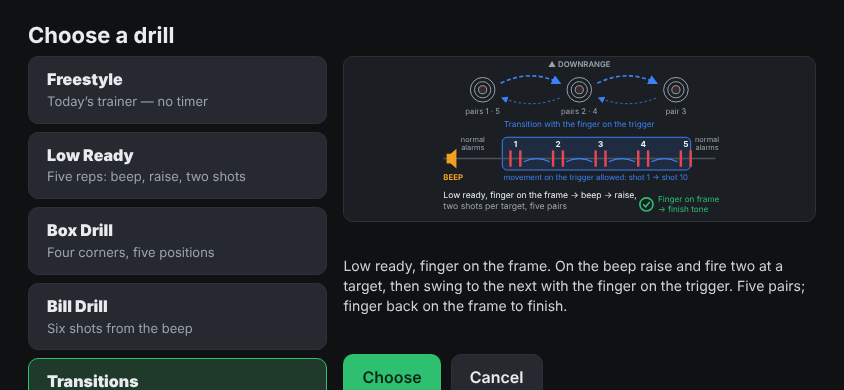
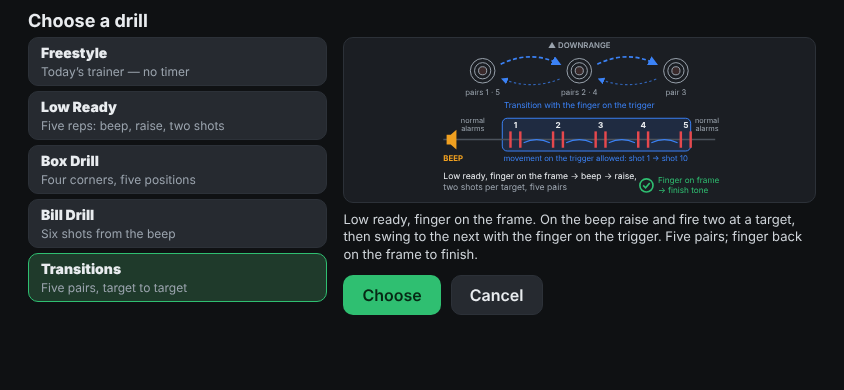
WQ-030: tests for the review fixes (running-minimum grading origin, window close, compact picker, structural expectations)
Claude-Session: https://claude.ai/code/session_013aLc3vB9FXw7qDu4fx63c5

diff --git a/tests/replay.js b/tests/replay.js
@@ -87,7 +87,7 @@ for (const f of files) {
   if (rec.format !== 'tdt-recording') { console.log(`SKIP  ${rel}: not a tdt recording`); continue; }
 
   const res = TDT.replay(rec);
-  const sum = summarize(res);
+  const sum = summarize(res); sum.synthetic = !!rec.synthetic;
   const dur = rec.t1 && rec.t0 ? ((rec.t1 - rec.t0) / 1000).toFixed(1) + ' s' : '';
   console.log(`\n${rel}  [${rec.label}${rec.synthetic ? ', synthetic' : ''}] ${dur}` +
     `  shots ${sum.shots.length} (${sum.shots.map(s => s.grade[0]).join('') || '-'})  alarms ${sum.alarmsMove}  180s ${sum.b180} (max ${sum.maxDev.toFixed(0)}°)` +
@@ -645,6 +645,76 @@ if (trFile) {
     const tshot = run('transitions'), bshot = run('bill');
     t(`grading: Transitions grades the shot after the 40 deg swing from the press start: Clean, dev ${tshot && tshot.shot.dev}`, !!tshot && tshot.shot.grade === 'Clean' && tshot.shot.dev < 0.5);
     t(`grading: the same sequence in Bill counts the swing: dev ${bshot && bshot.shot.dev.toFixed(1)} deg, not Clean (${bshot && bshot.shot.grade})`, !!bshot && bshot.shot.dev > 5 && bshot.shot.grade !== 'Clean');
+  }
+  // (F) the stimulus itself: the recording's four swings are real (>= 80 deg/s for >= 0.45 s, >= 35 deg) and nothing else moves
+  {
+    const ms = rec.log.filter(r => r[0] === 'm'), mag = r => Math.hypot(r[2], r[3], r[4]);
+    const stretches = []; let cur = null;
+    ms.forEach((r, i) => {
+      const hi = mag(r) >= 79.9;
+      if (hi) { if (!cur) { cur = { t0: r[1], t1: r[1], deg: 0 }; stretches.push(cur); } const dt = i ? (r[1] - ms[i - 1][1]) / 1000 : 0; cur.deg += mag(r) * dt; cur.t1 = r[1]; }
+      else cur = null;
+    });
+    t(`(F) the recording holds exactly four swings (${stretches.length}), each >= 80 deg/s for >= 0.45 s and integrating to >= 35 deg (${stretches.map(x => `${((x.t1 - x.t0) / 1000 + 1 / 60).toFixed(2)} s/${x.deg.toFixed(0)} deg`).join(', ')})`,
+      stretches.length === 4 && stretches.every(x => (x.t1 - x.t0) / 1000 + 1 / 60 >= 0.45 && x.deg >= 35));
+    t('(F) no other stretch of the recording exceeds moveDps (25 deg/s): the only fast turning is the four swings',
+      ms.every(r => mag(r) >= 79.9 || mag(r) <= TDT.DEFAULTS.moveDps));
+  }
+  // (A) grading origin follows the muzzle until the pull has risen 15 % above its lowest point of the attempt
+  {
+    const pull2 = c => { for (const dx of [20, 45, 70]) { c.eng.touches(c.T, TOUCH(dx), W, H); c.run(40); } };   // a pull with no return: the touch stays at 70 px
+    const seq = (id, how, ride) => {
+      const c = mk(5, id); c.go(); c.on(); c.run(600); c.fire(); c.run(300);                              // shot 1, touch kept at base
+      if (ride) { pull2(c); c.run(100); } else { c.fire(); c.run(300); }                                  // shot 2: held at 70 px (ride) or returned to base
+      how(c);
+      c.eng.touches(c.T, TOUCH(45), W, H); c.run(40); c.eng.touches(c.T, TOUCH(70), W, H); c.run(60);
+      return c;
+    };
+    const ride = c => { c.eng.touches(c.T, TOUCH(25), W, H);   // the broken trigger rides forward to 25 px: that is the reset, minPull 25
+      c.run(100); c.swing(40); c.run(300); };      // hold the reset at ~40 % pull, swing, the phone still
+    const abort = c => { c.eng.touches(c.T, TOUCH(18), W, H); c.run(100); c.eng.touches(c.T, TOUCH(0), W, H); c.run(100); c.swing(40); c.run(300); };   // 30 % and back
+    for (const [name, how, rd] of [['A1 reset-ride (held at 25 px = 42 %)', ride, true], ['A2 aborted press (30 % and back to 0)', abort, false]]) {
+      const tc = seq('transitions', how, rd), bc = seq('bill', how, rd);
+      const ts = tc.d().shots[2], bs = bc.d().shots[2];
+      t(`(${name}) Transitions: shot 3 grades from the press start: dev ${ts && ts.dev.toFixed(2)} (< 1), Clean, no alarm`, tc.d().shots.length === 3 && ts.grade === 'Clean' && ts.dev < 1 && tc.alarms().length === 0, ts);
+      t(`(${name}) vacuity, same sequence in Bill: the swing is in the deviation: dev ${bs && bs.dev.toFixed(1)} (about 40), not Clean`, bc.d().shots.length === 3 && bs.dev > 30 && bs.dev < 50 && bs.grade !== 'Clean', bs);
+    }
+    // a press that rises through the freeze point and falls back below it re-takes again (the origin follows a hold at the low point only)
+    const c = mk(5); c.go(); c.on(); c.run(600); c.fire(); c.run(300);
+    c.eng.touches(c.T, TOUCH(30), W, H); c.run(60); c.swing(20); c.run(100);                              // above 15 % of base 0: origin frozen at the 30 px moment
+    c.eng.touches(c.T, TOUCH(0), W, H); c.run(100); c.swing(-20); c.run(200);                              // back to the low point, then another swing: origin follows
+    c.eng.touches(c.T, TOUCH(45), W, H); c.run(40); c.eng.touches(c.T, TOUCH(70), W, H); c.run(60);
+    t(`(A3) press rising, falling back below the freeze point, swinging, then firing: the shot grades from the last low point (dev ${c.d().shots[1] && c.d().shots[1].dev.toFixed(2)} < 1)`, c.d().shots.length === 2 && c.d().shots[1].dev < 1);
+  }
+  // (B) a run replaced or dropped un-paused inside the window: cancel event, drift reference re-taken, window closed
+  for (const [name, act] of [['cancelDrill', c => c.eng.cancelDrill(c.T)], ["startDrill('bill')", c => c.eng.startDrill(c.T, 'bill', 9)]]) {
+    const c = mk(5); c.go(); c.on(); c.run(600); c.fire(); c.run(600); c.swing(40); c.run(100);
+    t(`(B) ${name}: setup: window open after a 40 deg swing, no alarm`, c.eng.state.drillFree === true && c.alarms().length === 0 && c.eng.state.devOff > 30);
+    act(c);
+    const freeAtOnce = c.eng.state.drillFree; c.run(20);
+    t(`(B) ${name}: one drillCancel (transitions), drillFree false at once, drift reference re-taken (devOff ${c.eng.state.devOff.toFixed(2)} at the next tick)`,
+      c.of('drillCancel').length === 1 && c.of('drillCancel')[0].drill === 'transitions' && freeAtOnce === false && c.eng.state.devOff < 1);
+    c.run(800);
+    t(`(B) ${name}: no alarmStart over the next 800 ms with the phone still (without the re-take the 40 deg drift would alarm); window still closed`, c.alarms().length === 0 && c.eng.state.drillFree === false);
+    c.rate(10, 1000);
+    t(`(B) ${name}: ... and the normal drift rule is live afterwards (a slow 10 deg alarms)`, c.alarms().length === 1 && c.alarms()[0].reason === 'move');
+  }
+  // (C) a pause mid-window closes the window at once
+  {
+    const c = mk(5); c.go(); c.on(); c.run(600); c.fire(); c.run(300);
+    t('(C) setup: window open', c.eng.state.drillFree === true);
+    c.eng.setPaused(true, c.T + 1);
+    t('(C) setPaused(true) mid-window: drillFree is false immediately, with no tick in between', c.eng.state.drillFree === false && c.of('drillCancel').length === 1);
+  }
+  // (I) a shot before the beep is early and opens no window
+  {
+    const c = mk(5); c.eng.touches(10, REST, W, H); c.run(700); c.on(); c.run(500); c.fire(); c.run(300);
+    t('(I) a shot in standby before the beep: early 1, phase standby, no run shot, drillFree false', c.d().phase === 'standby' && c.d().early === 1 && c.d().shots.length === 0 && c.eng.state.drillFree === false && c.of('shot').length === 1);
+    c.swing(40);
+    t('(I) ... and a swing then alarms (no window was opened by that shot)', c.alarms().length === 1 && c.alarms()[0].reason === 'move');
+    c.frame(); c.run(100);
+    c.until(() => c.d().phase === 'live', 7000);
+    t('(I) the beep still comes after the early shot; the early shot is not one of the ten (shots 0, early 1)', c.d().phase === 'live' && c.d().shots.length === 0 && c.d().early === 1);
   }
 }
 

diff --git a/tests/expectations.js b/tests/expectations.js
@@ -156,19 +156,19 @@ module.exports = {
       ['Box positions carry time / splits and no Low Ready fields (no reaction, no split)', !!run && run.reps.every(p => !('reaction' in p) && !('split' in p) && 'time' in p && Array.isArray(p.splits)) && !('avgReaction' in run)],
     ];
   },
-  // WQ-030: Transitions. Five pairs, the phone swung fast (40 deg, over 80 deg/s) after each of the first four with the finger kept
-  // on the trigger; the window (first to tenth shot) lets that pass. Every figure is derived here from the event times.
+  // WQ-030: Transitions. Structural checks apply to every recording with this label (real phones too); the timing, grade and
+  // no-alarm checks hold only for the generated synthetic one (r.synthetic), whose swings and presses are scripted. Every figure
+  // is derived here from the event times.
   'drill-transitions': r => {
     const FR = 17, near = (a, b) => Math.abs(a - b) < 0.01, run = r.runs[0], B = r.beepEvs, endT = r.endTs[0], st = r.shotTimes;
     const have = B.length === 1 && st.length === 10 && endT !== undefined;
     const gaps = have ? st.slice(1).map((x, i) => x - st[i]) : [];
     const mean = a => a.reduce((x, y) => x + y, 0) / a.length;
-    return [
+    const out = [
       ['exactly one start beep (rep 1), no cue, no cancel, one drill end', r.drillBeeps === 1 && B[0].rep === 1 && r.drillCues === 0 && r.drillCancels === 0 && r.drillEnds === 1],
       ['the beep falls 2000-5000 ms (+ one frame) after arming', B.length > 0 && r.firstArmedT !== undefined && B[0].t - r.firstArmedT >= 2000 && B[0].t - r.firstArmedT <= 5000 + FR],
       ['ten shots, all after the beep, the drill end after the tenth', have && st.every(t => t > B[0].t) && endT > st[9]],
-      ['no alarm at all (none between shot 1 and shot 10 in particular)', r.alarms === 0 && r.alarmTs.length === 0 && !r.alarmTs.some(t => have && t >= st[0] && t <= st[9])],
-      ['every shot graded, none "unsafe" (all Clean: the phone is still during each press)', r.shots.length === 10 && r.shots.every(s => s.grade === 'Clean')],
+      ['no alarmStart between shot 1 and shot 10 (the window)', have && !r.alarmTs.some(t => t >= st[0] && t <= st[9])],
       ['the end has the same t as an ok event (the finger back on the frame)', endT !== undefined && r.okTs.includes(endT)],
       ['state.drillRuns holds one run, drill "transitions", ten shots, nine splits', r.runs.length === 1 && !!run && run.drill === 'transitions' && run.shots.length === 10 && run.splits.length === 9],
       ['first = shot 1 - beep; total = shot 10 - beep (not the end); endT = the drillEnd t',
@@ -177,11 +177,15 @@ module.exports = {
       ['pairSplits = splits 1-2, 3-4, 5-6, 7-8, 9-10 (indices 0, 2, 4, 6, 8; five)', !!run && have && run.pairSplits.length === 5 && run.pairSplits.every((x, i) => near(x, gaps[2 * i]))],
       ['transitions = splits 2-3, 4-5, 6-7, 8-9 (indices 1, 3, 5, 7; four)', !!run && have && run.transitions.length === 4 && run.transitions.every((x, i) => near(x, gaps[2 * i + 1]))],
       ['avgTransition = the mean of the four transitions (4 decimals)', !!run && have && Math.abs(run.avgTransition - mean(gaps.filter((_, i) => i % 2 === 1))) < 0.001],
-      ['pair splits are about 0.5 s; each transition holds the 0.5 s swing (>= 0.5 s) and is longer than any pair split',
-        !!run && have && run.pairSplits.every(x => x > 450 && x < 560) && run.transitions.every(x => x >= 500 && x > Math.max(...run.pairSplits))],
-      ['run-level early 0, alarms 0, withAlarm false; no shot is unsafe', !!run && run.early === 0 && run.alarms === 0 && run.withAlarm === false && run.shots.every(x => !x.unsafe && x.grade !== 'alarm')],
       ['a Transitions result carries no Low Ready / Box fields (reps, time, reaction, avgReaction)', !!run && !('reps' in run) && !('time' in run) && !('reaction' in run) && !('avgReaction' in run)],
     ];
+    if (r.synthetic) out.push(
+      ['synthetic: no alarm at all, every shot graded Clean (the phone is still during each press), none unsafe',
+        r.alarms === 0 && r.alarmTs.length === 0 && r.shots.length === 10 && r.shots.every(s => s.grade === 'Clean') && !!run && run.shots.every(x => !x.unsafe && x.grade !== 'alarm')],
+      ['synthetic: pair splits are 500 ms (+- one frame), transitions 1900 ms (+- one frame: the 0.5 s swing sits inside)',
+        !!run && have && run.pairSplits.every(x => Math.abs(x - 500) <= FR) && run.transitions.every(x => Math.abs(x - 1900) <= FR)],
+      ['synthetic: run-level early 0, alarms 0, withAlarm false', !!run && run.early === 0 && run.alarms === 0 && run.withAlarm === false]);
+    return out;
   },
   'axis-up': r => [
     ['largest excursion reads as muzzle UP', dominant(r.peak, 'v', +1)],

diff --git a/tests/smoke.js b/tests/smoke.js
@@ -1580,6 +1580,13 @@ const check = (name, cond, state) => {
       check(`WQ-030: ${vw}x${vh}: the picker has no horizontal overflow`, noH);
       const sb = await tp.$eval('#drillDiagram svg', e => { const b = e.getBoundingClientRect(); return { x: b.x, r: b.right, w: b.width, h: b.height }; });
       check(`WQ-030: ${vw}x${vh}: the Transitions diagram is fully inside the viewport and has a size`, sb.x >= 0 && sb.r <= vw + 0.5 && sb.w > 100 && sb.h > 50, sb);
+      if (vw === W) {                                   // D-112 compact landscape rule: all five entries, the diagram and both buttons fit with no scrolling
+        const fit = await tp.evaluate(() => { const o = document.getElementById('drillOv'); return { sh: o.scrollHeight, ch: o.clientHeight, sw: o.scrollWidth, cw: o.clientWidth }; });
+        check(`WQ-030: ${vw}x${vh}: the picker needs no scrolling (scrollHeight ${fit.sh} === clientHeight ${fit.ch})`, fit.sh === fit.ch && fit.sw <= fit.cw + 1, fit);
+        const allIn = [];
+        for (const id of ['freestyle', 'lowready', 'box', 'bill', 'transitions']) allIn.push(await tp.$eval(`#drillList .drillOpt[data-id="${id}"]`, (e, [vw, vh]) => { const b = e.getBoundingClientRect(); return b.top >= 0 && b.bottom <= vh + 0.5 && b.left >= 0 && b.right <= vw + 0.5; }, [vw, vh]));
+        check(`WQ-030: ${vw}x${vh}: all five list entries are inside the viewport without scrolling (scrollTop 0)`, allIn.every(Boolean) && await tp.$eval('#drillOv', e => e.scrollTop === 0), allIn);
+      }
       const last = await inView('#drillList .drillOpt[data-id="transitions"]', vw, vh);
       check(`WQ-030: ${vw}x${vh}: the fifth list entry can be scrolled into view`, last === true || (last && last.width > 0), last);
     }
@@ -1601,7 +1608,7 @@ const check = (name, cond, state) => {
     let lo = await TO();
     const rest1 = pick(lo.ev, 'rest'), beep1 = pick(lo.ev, 'beep');
     check(`WQ-030: the beep came 2000-5000 ms (+ one frame) after the finger came onto the frame (${beep1 && rest1 ? (beep1.n - rest1.n).toFixed(0) : '?'} ms)`,
-      !!beep1 && !!rest1 && beep1.n - rest1.n >= 2000 - FRM && beep1.n - rest1.n <= 5000 + 2 * FRM, lo.ev);
+      !!beep1 && !!rest1 && beep1.n - rest1.n >= 2000 - FRM && beep1.n - rest1.n <= 5000 + Math.max(2 * FRM, 100), lo.ev);
     check('WQ-030: at the beep the line says "Go — two at the first target", live, no shots, window closed',
       d.drill.phase === 'live' && d.drill.shots === 0 && d.drill.freeOnTrigger === false && await tline() === 'Go — two at the first target', [d.drill, await tline()]);
     await tengage(); await tsleep(450);                                   // trigger touched, no pull, past the grace period
@@ -1742,6 +1749,7 @@ const check = (name, cond, state) => {
     await tp.click('#gear'); await tp.waitForTimeout(120);
     d = await tst();
     check('WQ-030: run 4: gear cancels the run (standby, no shots, 2 runs counted, results not open)', d.paused && d.drill.phase === 'standby' && d.drill.shots === 0 && d.drillRuns === 2 && !d.drillResOpen, d);
+    check('WQ-030: run 4: while paused after the gear cancel freeOnTrigger is false', d.drill.freeOnTrigger === false, d.drill);
     await tp.click('#doneBtn'); await tp.waitForTimeout(100);
 
     // --- 7. run 5: gear in a live run with the window open cancels (no result, run count unchanged)
@@ -1754,6 +1762,7 @@ const check = (name, cond, state) => {
     d = await tst();
     check('WQ-030: run 5: gear with the window open cancels: paused, standby, no shots, no result, run count still 2, results not open',
       d.paused && d.drill.phase === 'standby' && d.drill.shots === 0 && d.drill.result === null && d.drillRuns === 2 && !d.drillResOpen, d);
+    check('WQ-030: run 5: with the window open at the gear tap, freeOnTrigger is false while paused (before Resume)', d.paused && d.drill.freeOnTrigger === false, d.drill);
     await tp.click('#doneBtn'); await tp.waitForTimeout(100);
     d = await tst();
     check('WQ-030: run 5: after Resume the window is closed (freeOnTrigger false), the line says Cancelled', d.drill.freeOnTrigger === false && /^Cancelled/.test(await tline()), [d.drill, await tline()]);

diff --git a/tests/roundtrip.js b/tests/roundtrip.js
@@ -369,6 +369,11 @@ const check = (name, cond, extra) => {
   check('WQ-030: Transitions recording: the replayed run has ten shots, five pair splits and four transitions; its total matches the live drillEnd total and is shot 10 minus the beep',
     resT.state.drillRuns.length === 1 && resT.state.drillRuns[0].shots.length === 10 && resT.state.drillRuns[0].pairSplits.length === 5 && resT.state.drillRuns[0].transitions.length === 4 &&
     Math.abs(resT.state.drillRuns[0].total - endT[3]) < 0.001 && Math.abs(endT[3] - (obsT('shot')[9][0] - obsT('drillBeep')[0][0])) < 0.01, [resT.state.drillRuns.length, endT]);
+  {
+    const asBill = JSON.parse(JSON.stringify(recT)); asBill.log.find(r => r[0] === 'r')[2] = 'bill';
+    const ab = TDT.replay(asBill).events.filter(e => e.type === 'alarmStart');
+    check(`WQ-030: Transitions recording: the same recorded log replayed as a Bill run alarms (${ab.length} alarmStart): the recorded swings are strong enough, and only the window keeps the Transitions run quiet`, ab.length >= 1, ab.length);
+  }
   check('WQ-030: Transitions recording: the results overlay paused the engine (no drillCancel observed)', trLast.paused === true && obsT('drillCancel').length === 0);
   check('no page errors', errors.length === 0, errors);
 
